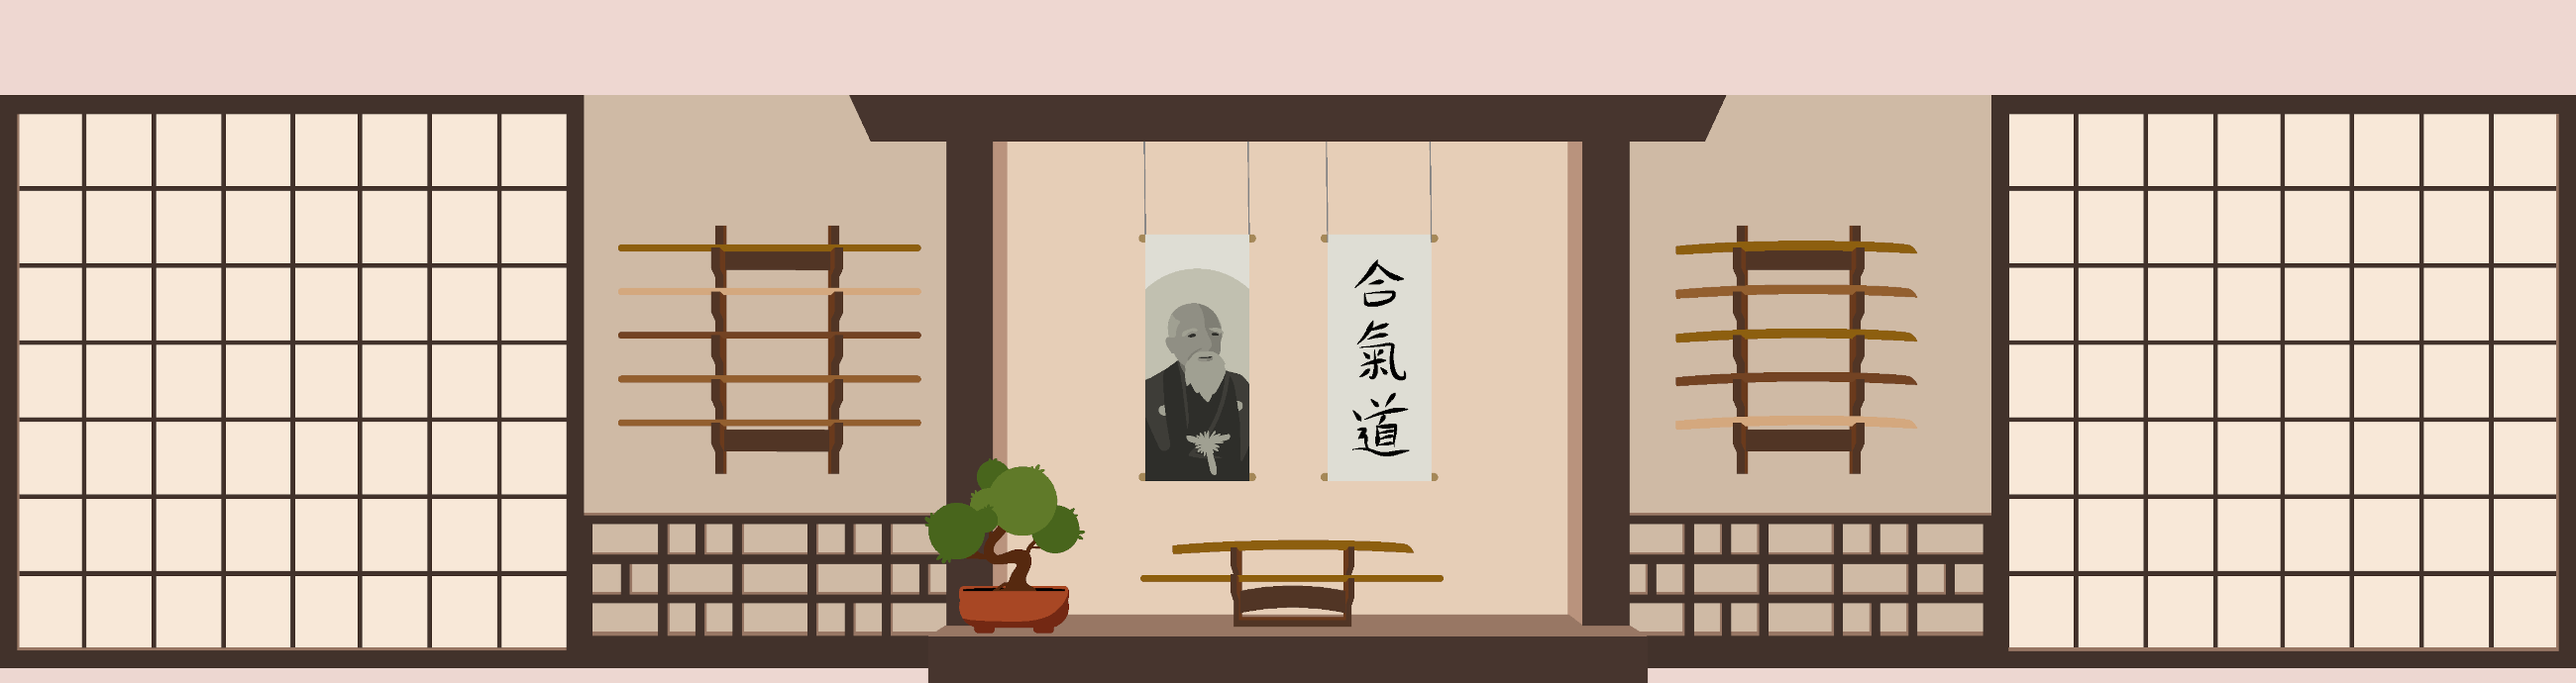
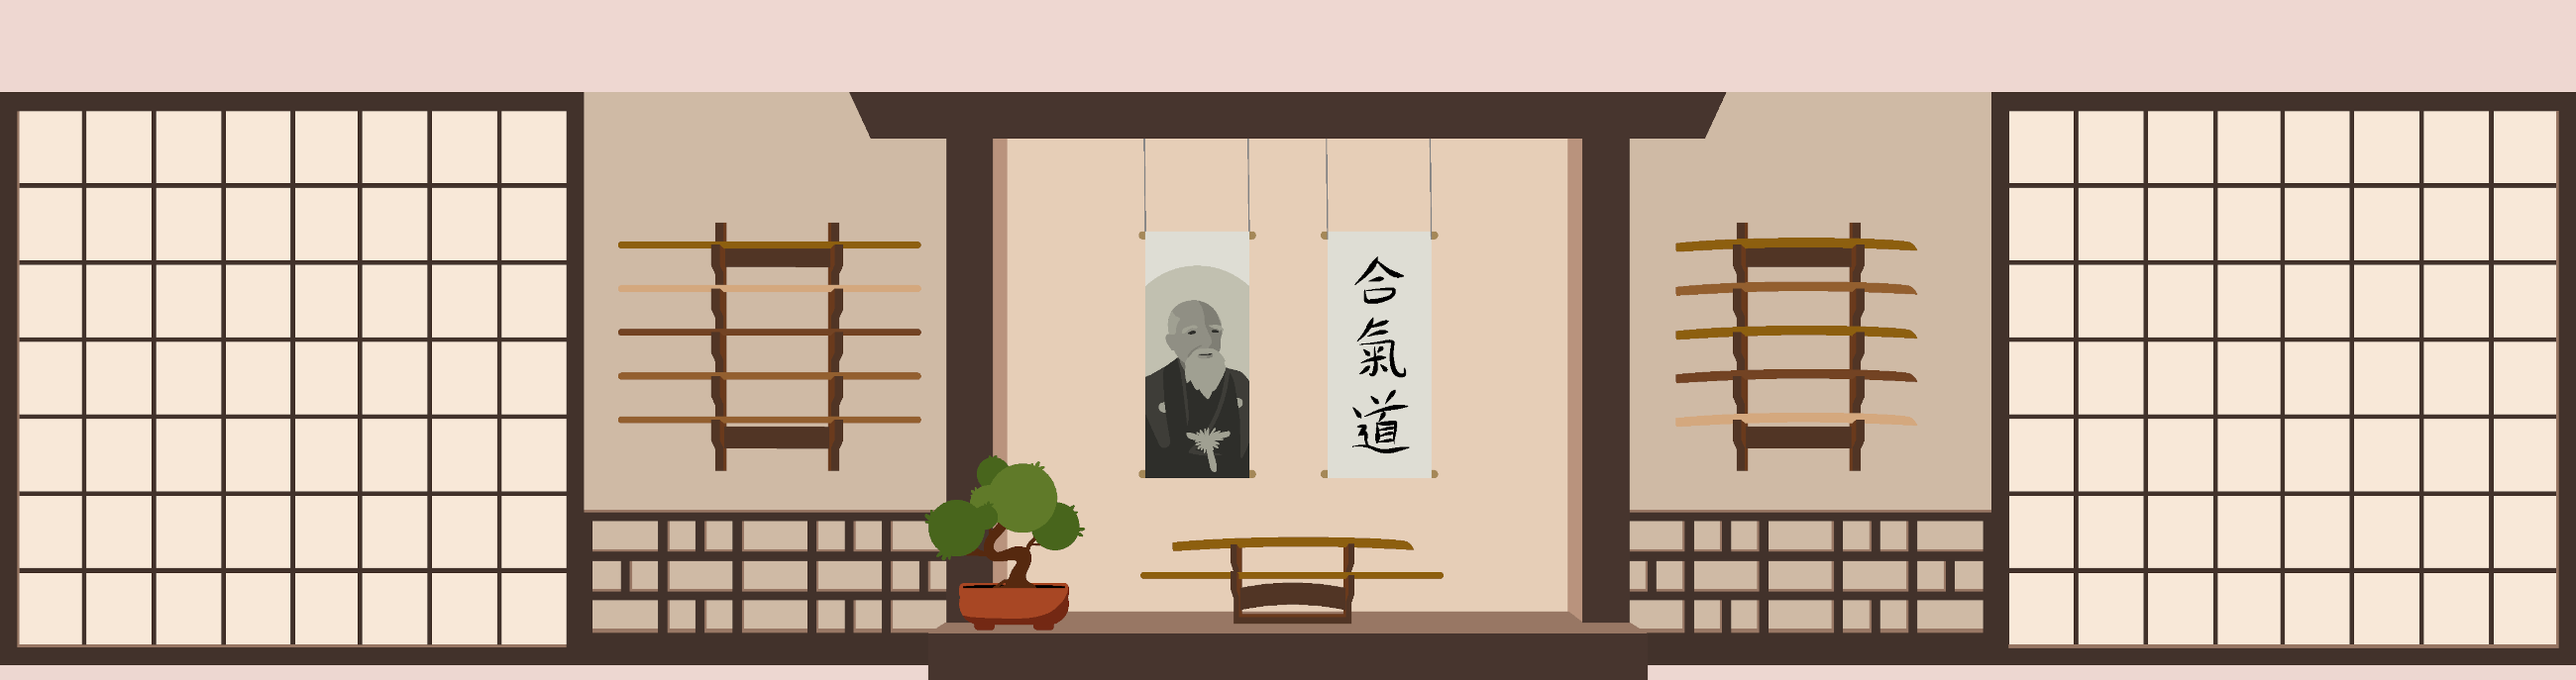
Update gallery alt text with accurate descriptions

diff --git a/gallery.html b/gallery.html
@@ -43,32 +43,32 @@
         </header>
  
         <section id="pics">
-            <img src="assets/images/sensei-rogers.jpg" alt="Sensei John Rogers, head of Irish Aikido Federation">
-            <img src="assets/images/practice-1.jpg" alt="Aikido club training 1">            
-            <img src="assets/images/practice-2.jpg" alt="Aikido club training 2">          
-            <img src="assets/images/practice-3.jpg" alt="Aikido club training 3">
-            <img src="assets/images/practice-4.jpg" alt="Aikido club training 4">
-            <img src="assets/images/practice-5.jpg" alt="Aikido club training 5">
-            <img src="assets/images/practice-6.jpg" alt="Aikido club training 6">
-            <img src="assets/images/practice-7.jpg" alt="Aikido club training 7">
-            <img src="assets/images/practice-8.jpg" alt="Aikido club training 8">
-            <img src="assets/images/practice-9.jpg" alt="Aikido club training 9">
-            <img src="assets/images/practice-10.jpg" alt="Aikido club training 10">
-            <img src="assets/images/practice-11.jpg" alt="Aikido club training 11">
-            <img src="assets/images/practice-12.jpg" alt="Aikido club training 12">
-            <img src="assets/images/practice-13.jpg" alt="Aikido club training 13">
-            <img src="assets/images/practice-14.jpg" alt="Aikido club training 14">
-            <img src="assets/images/sitting-1.jpg" alt="Aikido club sitting formally">
-            <img src="assets/images/sitting-1a.jpg" alt="Aikido club sitting very informally">
-            <img src="assets/images/sitting-2.jpg" alt="Aikido club sitting 2">
-            <img src="assets/images/sitting-4.jpg" alt="Aikido club sitting 4">
-            <img src="assets/images/sitting-5.jpg" alt="Aikido club sitting 5">
-            <img src="assets/images/social-1.jpg" alt="Aikido club social 1">
-            <img src="assets/images/social-2.jpg" alt="Aikido club social 2">
-            <img src="assets/images/social-3.jpg" alt="Aikido club social 3">
-            <img src="assets/images/social-4.jpg" alt="Aikido club social 4">
-            <img src="assets/images/social-5.jpg" alt="Aikido club social 5">
-            <img src="assets/images/social-6.jpg" alt="Aikido club social 6">
+            <img src="assets/images/sensei-rogers.jpg" alt="Sensei John Rogers, head of the Irish Aikido Federation">
+            <img src="assets/images/practice-1.jpg" alt="Maynooth, suwariwaza katatedori kokyunage">            
+            <img src="assets/images/practice-2.jpg" alt="Maynooth, katatedori kotegaeshi">          
+            <img src="assets/images/practice-3.jpg" alt="Maynooth, suwariwaza katatedori kokyunage">
+            <img src="assets/images/practice-4.jpg" alt="Maynooth, katatedori kotegaeshi">
+            <img src="assets/images/practice-5.jpg" alt="Maynooth, katatedori kokyunage">
+            <img src="assets/images/practice-6.jpg" alt="Maynooth, katatedori kaitennage">
+            <img src="assets/images/practice-7.jpg" alt="Maynooth, suwariwaza katatedori">
+            <img src="assets/images/practice-8.jpg" alt="Maynooth, katatedori kotegaeshi">
+            <img src="assets/images/practice-9.jpg" alt="Maynooth, katatedori kokyunage">
+            <img src="assets/images/practice-10.jpg" alt="Maynooth, suwariwaza kokyunage">
+            <img src="assets/images/practice-11.jpg" alt="Maynooth, suwariwaza katatedori">
+            <img src="assets/images/practice-12.jpg" alt="Maynooth, katatedori kokyunage">
+            <img src="assets/images/practice-13.jpg" alt="Maynooth, pinning after kotegaeshi throw">
+            <img src="assets/images/practice-14.jpg" alt="Maynooth, bowing afrer training">
+            <img src="assets/images/sitting-1.jpg" alt="MU Aikido club, sitting formally">
+            <img src="assets/images/sitting-1a.jpg" alt="MU Aikido club, sitting very informally">
+            <img src="assets/images/sitting-2.jpg" alt="Sitting after training in Maynooth">
+            <img src="assets/images/sitting-4.jpg" alt="Sitting after training at Galway course">
+            <img src="assets/images/sitting-5.jpg" alt="Sitting after training in Macken St. dojo, Dublin">
+            <img src="assets/images/social-1.jpg" alt="Aikido pub social in Maynooth">
+            <img src="assets/images/social-2.jpg" alt="Aikido dinner social at Galway course">
+            <img src="assets/images/social-3.jpg" alt="Aikido dinner social in Maynooth">
+            <img src="assets/images/social-4.jpg" alt="Aikido dinner social in Maynooth">
+            <img src="assets/images/social-5.jpg" alt="Aikido pub social at Galway course">
+            <img src="assets/images/social-6.jpg" alt="Aikido dinner social in Maynooth">
         </section>
 
 

diff --git a/faq.html b/faq.html
@@ -26,23 +26,23 @@
                 <div id="nav">
                     <ul>
                         <li>
-                            <a href="index.html">Home</a>
+                            <a class="color-swap" href="index.html">Home</a>
                         </li>
                         <li>
-                            <a href="gallery.html">Gallery</a>
+                            <a class="color-swap" href="gallery.html">Gallery</a>
                         </li>
                         <li>
-                            <a href="faq.html">FAQ</a>
+                            <a class="color-swap" href="faq.html">FAQ</a>
                         </li>
                         <li>
-                            <a href="#">Join</a>
+                            <a class="color-swap" href="#">Join</a>
                         </li>
                     </ul>
                 </div>
             </nav>
         </header>
         <article class="main">
-            <h2 class="centred index-heading">Main Header</h2>
+            <h2 class="centred index-heading">Frequently Asked Questions</h2>
             <br>
             <p>Placeholder paragraph text. Club introductory placeholder text goes here. Lots and lots of introductory
                 placeholder text for our aikido club. So very much text. All of it placeholder. Lots and lots of

diff --git a/index.html b/index.html
@@ -47,7 +47,7 @@
             </div>
         </header>
         <article class="main">
-            <h2 class="centred index-heading">Main Header</h2>
+            <h2 class="centred index-heading">Learn Aikido at Maynooth</h2>
             <br>
             <p>Placeholder paragraph text. Club introductory placeholder text goes here. Lots and lots of introductory
                 placeholder text for our aikido club. So very much text. All of it placeholder. Lots and lots of

diff --git a/assets/css/style.css b/assets/css/style.css
@@ -74,7 +74,7 @@ li {
 }
 
 .header-dojo {
-    height: 690px;
+    height: 687px;
     width: 100%;
     text-align: left;
     background: url('../images/dojo-header.png') no-repeat center center;
@@ -217,6 +217,11 @@ td {
     li {
         margin-left: 0px;
         margin-right: 20px;
+    }
+
+    .color-swap {
+        color: #ecd8d1;
+        background-color: #47352e;
     }
 }
 
